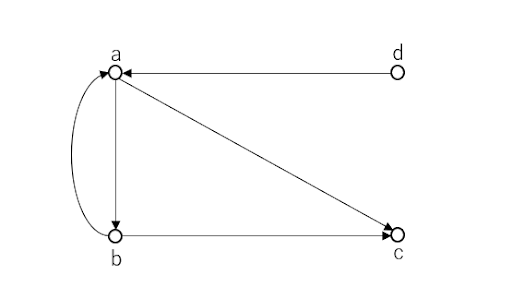
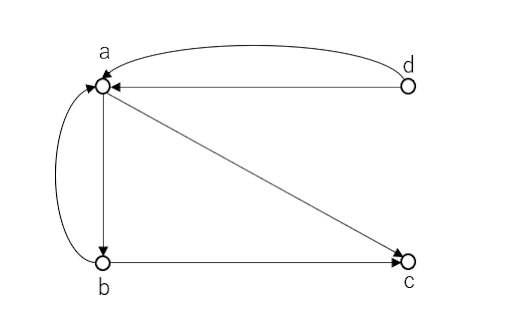
-

diff --git a/README.md b/README.md
@@ -132,16 +132,40 @@ print(X == Y)
 
 有向グラフ : 辺に向きのあるグラフ
 
-辺に向きのあるグラフのことを**有向グラフ**（ダイグラフ）と呼び、頂点集合と**弧**（有向辺）と呼ばれる頂点の順序対の集合によって構成される。
+辺に向きのあるグラフのことを**有向グラフ**（ダイグラフ）と呼び、頂点集合と**弧**（有向辺）と呼ばれる頂点の順序対の集合（弧集合）によって構成される。
 
 <img src="./img/graph_5.png">
 
-有向グラフに対して、向きのないグラフを**無向グラフ**、あるいは単にグラフと呼ぶ。これまで扱っていたのは無効グラフである。上の図で`(a, b)`と`(b, a)`は順序対であり、第一成分は**始点**、第二成分は**終点**とよばれる。また、`(a, b)`と`(b, a)`は**対象弧**でもある。
+有向グラフに対して、向きのないグラフを**無向グラフ**、あるいは単にグラフと呼ぶ。これまで扱っていたのは無効グラフである。上の図で`(a, b)`と`(b, a)`は順序対であり、第一成分は**始点**、第二成分は**終点**とよばれる。また、`(a, b)`と`(b, a)`は**対象弧**でもある。さらに、同一の`(始点、終点)`を持つ2本以上の弧を**多重弧**と呼ぶ。ここでは`(d, a)`の弧が2本以上あるため、これは多重弧である。  
+多重弧やループを許した有向グラフを**多重有向グラフ**、あるいは**多重ダイグラフ**と呼び、多重辺やループを持たないグラフを**単純有向グラフ**、あるいは単に有向グラフ（ダイグラフ）と呼ぶ。上の図は多重有向グラフである。また。定義2のグラフに順序がついたものが単純有向グラフである。
 
 ### 用語
  - 有向グラフ, ダイグラフ
  - 弧, 有向辺
+ - 弧集合
  - 無向グラフ
  - 始点
  - 終点
  - 対象弧
+ - 多重弧
+ - 多重有向グラフ, 多重ダイグラフ
+ - 単純有向グラフ
+
+***
+
+# 定義6 : 部分集合
+
+以下の`A`は要素として`1, 3, 5`を有しており、`B`は`A`の要素に加え、`2, 4`の要素を有している。この時`B`は`A`の要素を含んでおり、これを`A`は`B`の**部分集合**であると表現する。また、空集合は任意の集合の部分集合である。
+
+```python
+A = {1, 3, 5}
+B = {1, 2, 3, 4, 5}
+
+C = A & B
+
+print(A == C)
+# True
+```
+
+### 用語
+ - 部分集合
